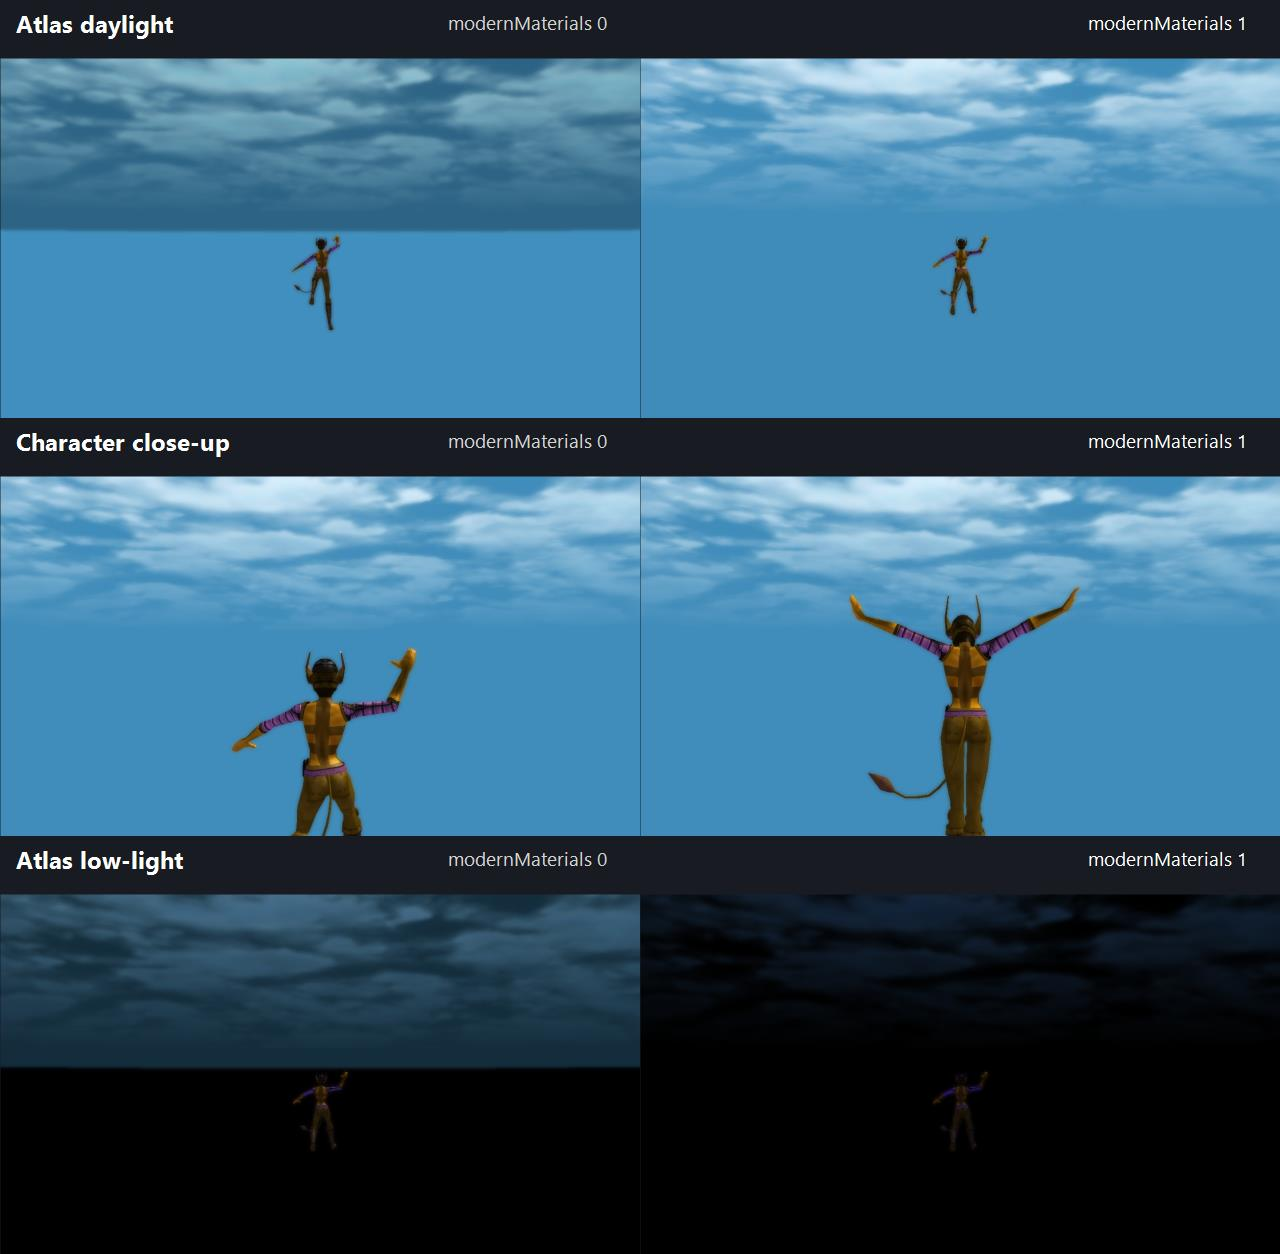
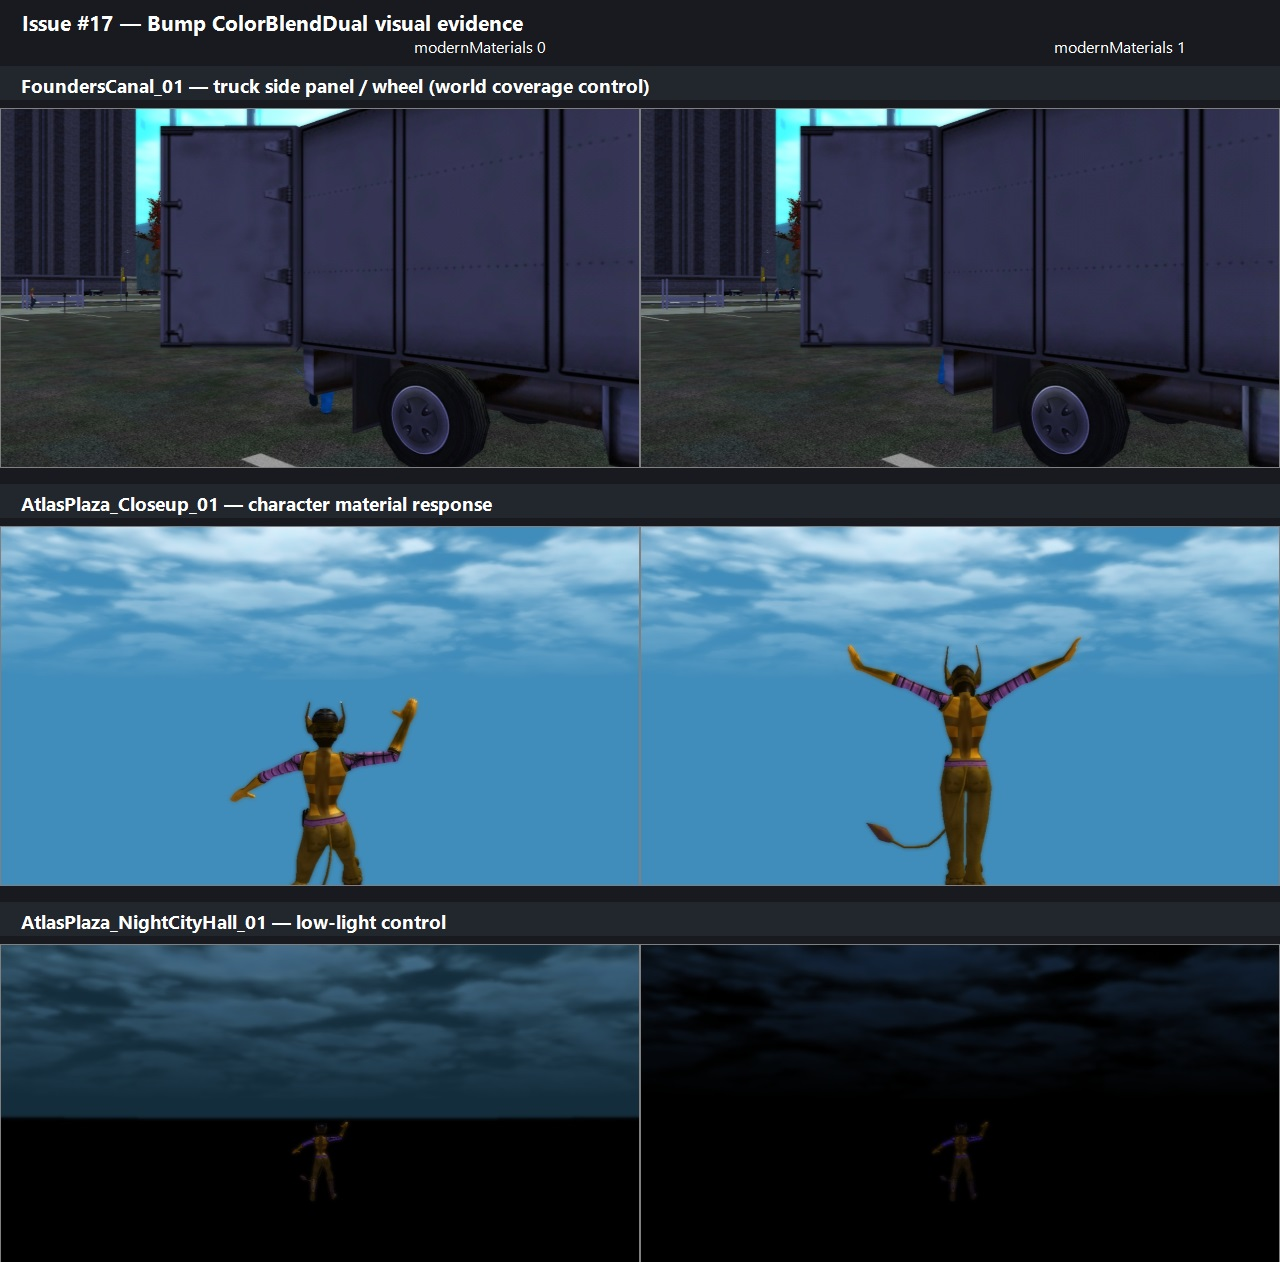
Document world coverage for modern materials

diff --git a/docs/issue-17-modern-materials.md b/docs/issue-17-modern-materials.md
@@ -57,7 +57,7 @@ uploaded only for these two programs.
 
 ## Visual observations
 
-The day and character rows show a localized change in costume response: the
+The character row shows a localized change in costume response: the
 modern branch produces a broader, Fresnel-weighted highlight/falloff response
 while retaining authored tint colors and normal-map detail. The low-light row
 remains intentionally restrained; its global sky/exposure differs between
@@ -65,11 +65,55 @@ process launches because the capture freeze locks eye adaptation at different
 convergence points. The close-up also has idle-animation phase variance, so it
 is visual evidence rather than a pixel-regression target.
 
-The day off/on comparator measured 49.22% changed pixels and meanDelta 26.76;
+The earlier day off/on comparator measured 49.22% changed pixels and meanDelta 26.76;
 the close-up measured 7.43% and meanDelta 8.09; and the low-light pair
 measured 48.71% and meanDelta 31.57. These are reported as visual A/B
 observations, not parity claims: the known capture exposure/weather and idle
 phase variance dominate the global metrics. All captures exited cleanly.
+
+## World/environment coverage follow-up
+
+The bounded search did not find a world surface with a material change as
+strong as the character response. The best reproducible non-character case is
+`FoundersCanal_01`, using only the foreground truck side panel, door hardware,
+panel rivets, tire tread, and wheel. The map is used as an environment probe;
+water is outside this evaluation and was not inspected or changed.
+
+Both runs used the same deterministic shot-table view (`map 10`, fixed
+camera/time setup, `timeset 16`, `timescale 0`) and explicitly launched with:
+
+```text
+-glslPilot 1 -modernMaterials 0|1 -modernPresentation 0 -modernBloom 0
+```
+
+The OFF run is recorded in
+`agent/logs/capture-FoundersCanal_01-20260817-193804.json` and the ON run in
+`agent/logs/capture-FoundersCanal_01-20260817-193923.json`; both exited cleanly.
+Their stdout telemetry registers vertex program 251 as `bump_dual HQ` and
+reports repeated
+`BLENDMODE_BUMPMAP_COLORBLEND_DUAL_HQ active (bump_dual HQ vertex variant)`
+events in both runs (`...193804.stdout.log` and `...193923.stdout.log`).
+
+The full-frame OFF/ON comparison is 1.1758% changed pixels with meanDelta
+2.5865. Visual review of the truck surface is intentionally conservative:
+
+- Normal-map shape: panel rivets, door hardware, tire grooves, and wheel shape
+  remain readable, but ON does not produce a clear additional relief cue.
+- Highlight width/falloff: the panel highlight is effectively unchanged; only
+  sparse rim/underbody pixels move, with no robust lobe-width conclusion.
+- Tint preservation: the authored violet-gray truck tint is preserved.
+- Plastic/wet appearance: the truck and asphalt do not become artificially
+  plastic or wet; the water surface is not part of this test.
+
+This means the telemetry proves the canonical HQ pairing is active during the
+world capture, but the named truck surface does not show a material response
+that is materially distinguishable from the controlled OFF image. A fixed
+Talos arrival wall probe was also clean but measured 0.0% changed pixels. The
+bounded result is therefore that representative world coverage is effectively
+character-dominant for this opt-in response; no shader-math change is justified
+and the scope is not broadened into Multi9, textures, Bump Multiply, shadows,
+water, post-processing, or fallback work. The updated contact sheet keeps this
+world control beside the character evidence so the limitation is visible.
 
 ## Validation
 
